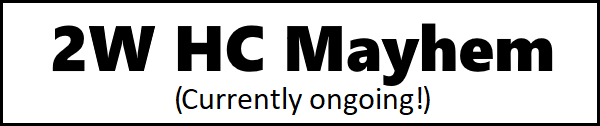
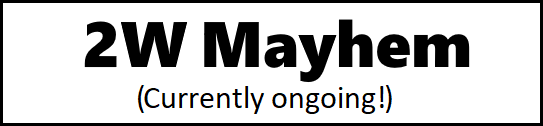
Added 2WMayhem SC

Changed region(s): [[0.0884, 0.1429, 0.9429, 0.7143], [0.2357, 0.6667, 0.7366, 0.9286]]

diff --git a/index.html b/index.html
@@ -30,6 +30,10 @@
 			<img border = "0" src="images\ladders\2WHCmayhem.png" alt = "2WHCmayhem" width = "20%"></a></p>
 			
 			<p>
+			<a href = "2Wmayhem\default.html">
+			<img border = "0" src="images\ladders\2Wmayhem.png" alt = "2Wmayhem" width = "20%"></a></p>
+			
+			<p>
 			<a href = "1WHClegacy\default.html">
 			<img border = "0" src="images\ladders\1WHClegacy.png" alt = "1WHClegacy" width = "20%" ></a></p>
 
